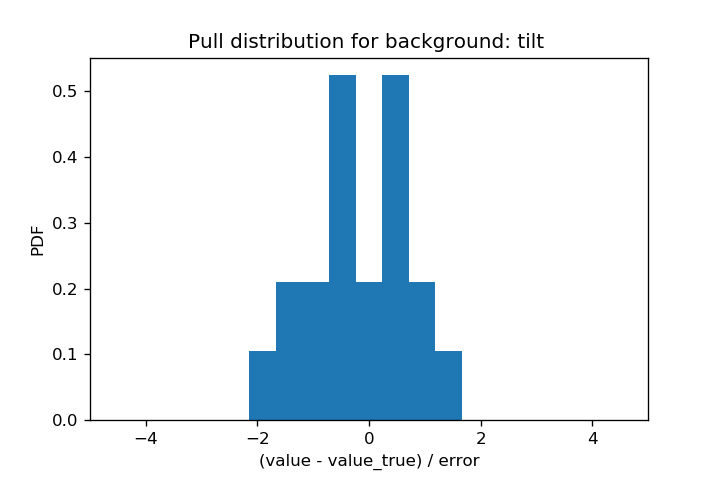
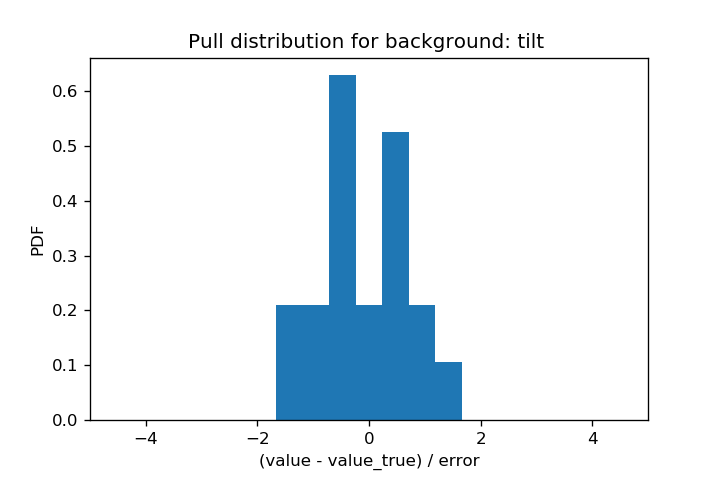
Increased the geometry to 8x8 deg

diff --git a/validation/event-sampling/make.py b/validation/event-sampling/make.py
@@ -13,12 +13,9 @@ import astropy.units as u
 from astropy.convolution import Tophat2DKernel
 from astropy.coordinates import SkyCoord
 from astropy.table import Table
-from gammapy.cube import (
-    MapDatasetEventSampler,
-)
 from gammapy.data import GTI, Observation, EventList
-from gammapy.datasets import MapDataset
-from gammapy.detect import LiMaMapEstimator as lima
+from gammapy.datasets import MapDataset, MapDatasetEventSampler
+from gammapy.estimators import LiMaMapEstimator as lima
 from gammapy.maps import MapAxis, WcsGeom, Map
 from gammapy.irf import EnergyDispersion2D, load_cta_irfs
 from gammapy.makers import MapDatasetMaker
@@ -55,7 +52,7 @@ ENERGY_AXIS_TRUE = MapAxis.from_energy_bounds("0.03 TeV", "300 TeV", nbin=20, pe
 MIGRA_AXIS = MapAxis.from_bounds(0.5, 2, nbin=150, node_type="edges", name="migra")
 
 WCS_GEOM = WcsGeom.create(
-    skydir=POINTING, width=(4, 4), binsz=0.02, frame="galactic", axes=[ENERGY_AXIS]
+    skydir=POINTING, width=(8, 8), binsz=0.02, frame="galactic", axes=[ENERGY_AXIS]
 )
 
 
